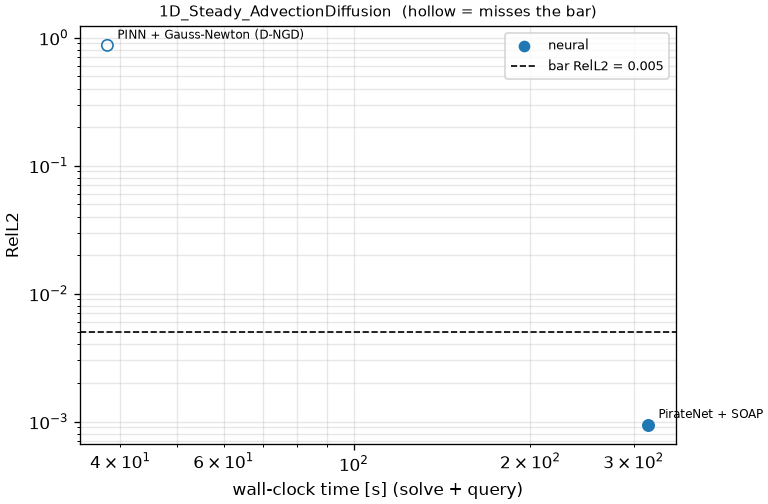
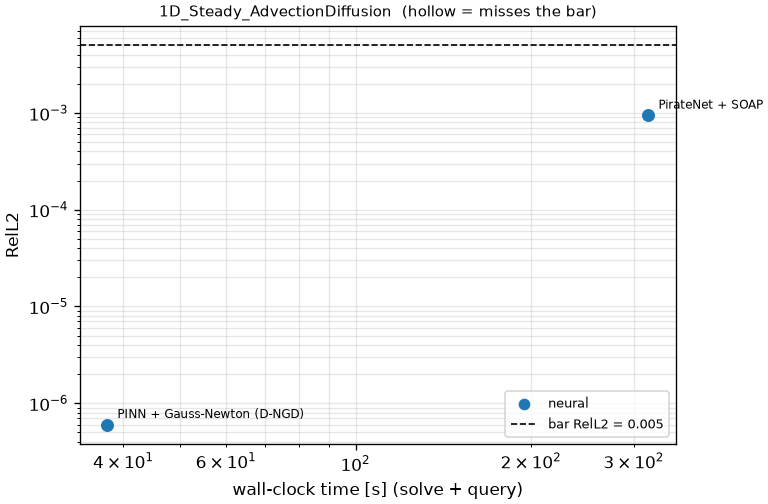
1D_Steady_AdvectionDiffusion, D-NGD: drop the Levenberg-Marquardt damping clip
The port had copied lm_max = 0.1 from the 2D steady tracks; with it Gauss-Newton stalls even at eps = 0.1
(RelL2 0.92), with the default fixed damping 1e-8 (as on the 1D time-dependent tracks) it converges
(eps = 0.1: 1.3e-7 in 300 steps; eps = 0.01: 6.0e-7 in 4000 steps). Rescored: 37.5 s, RelL2 6.0e-7, the record.

diff --git a/tracks/1D_Steady_AdvectionDiffusion/submissions/submission_PR0002/solve.py b/tracks/1D_Steady_AdvectionDiffusion/submissions/submission_PR0002/solve.py
@@ -1,8 +1,7 @@
 """Submission 2: PINN trained by Gauss-Newton (speedrun/submissions/submission_PR0002). Steady 1D advection-diffusion
 -eps u'' + b u' = f with an outflow boundary layer: PDE residual + the Dirichlet walls u(0) = u(1) = 0 as boundary
-terms, collocation clustered at the walls, float64."""
+terms, collocation clustered at the walls, fixed damping 1e-8 (no Levenberg-Marquardt clip), float64."""
 
-from speedrun.submissions.submission_PR0002.gn import GNConfig
 from speedrun.submissions.submission_PR0002.net import partials
 from speedrun.submissions.submission_PR0002.pinn import BC, PINN, Config, query, solve  # noqa: F401
 
@@ -17,5 +16,5 @@ def setup(problem):
     def walls(U, z):
         return U(z)[:1] - fn["bc"](z[0])
 
-    cfg = Config(gn=GNConfig(lm_max=0.1), width=50, depth=4, n_colloc=4000, n_bc=2, steps=4000, cluster_axes=("x",))
+    cfg = Config(width=50, depth=4, n_colloc=4000, n_bc=2, steps=4000, cluster_axes=("x",))
     return PINN(problem, residual, 1, cfg, bcs=[BC("x", walls, weight=10.0)]).compile()

diff --git a/speedrun/submissions/submission_PR0002/README.md b/speedrun/submissions/submission_PR0002/README.md
@@ -37,12 +37,13 @@ Per-track settings (`tracks/<track>/submissions/submission_PR0002/solve.py`):
 
 | track | windows | MLP | Fourier modes | points / step | GN steps | damping |
 |---|---|---|---|---|---|---|
+| 1D_Steady_AdvectionDiffusion | steady | 50 x 4 | - | 4k (clustered) + 2 wall | 4000 | 1e-8 |
 | 1D_DampedWave | 16 | 50 x 4 | 30 (odd ext.) | 20k | 100 / window | 1e-8 |
 | 1D_Burgers | 10 | 50 x 4 | 30 (odd ext.) | 20k | 100 / window | 1e-8 |
 | 1D_KuramotoSivashinsky | 20 (JAX-NG) | 50 x 4 (JAX-NG) | 10 | 20k | 200 / window | 1e-8 |
 | 1D_AllenCahn | 10 | 50 x 4 | 10 | 20k | 100 / window | 1e-8 |
 | 1D_KdV | 5 (JAX-NG) | 30 x 4 (JAX-NG) | 10 | 20k | 100 / window | 1e-8 |
-| 2D_Steady_AdvectionDiffusion | steady | 50 x 4 | - | 8k (clustered) + 1k insulated wall | 6000 | LM |
+| 2D_Steady_AdvectionDiffusion | steady | 50 x 4 | - | 8k (clustered) + 2 x 1k wall | 6000 | LM |
 | 2D_Steady_Kovasznay | steady | 50 x 4 | - | 4k + 4 x 500 wall | 300 | LM |
 | 2D_Steady_LidDrivenCavity | steady | 50 x 4 | - | 6k (clustered) + 4 x 750 wall | 6000 | LM |
 | 2D_GreyScott | 10 | 50 x 4 | 10 | 8k | 300 / window | LM |

diff --git a/README.md b/README.md
@@ -164,7 +164,7 @@ its tracker: RelL2 vs wall-clock time, one point per submission, bar dashed.
 | track | best submission | time [s] | RelL2 (≤ 0.5%) | RelL∞ (≤ 1%) | bar met |
 |---|---|---|---|---|---|
 | 0D_VanDerPol | [PirateNet + SOAP](tracks/0D_VanDerPol/submissions/submission_PR0001/solve.py) | 300.4 | 114% | 175% | no |
-| 1D_Steady_AdvectionDiffusion | [PirateNet + SOAP](tracks/1D_Steady_AdvectionDiffusion/submissions/submission_PR0001/solve.py) | 317.9 | 0.0945% | 0.136% | yes |
+| 1D_Steady_AdvectionDiffusion | [PINN + Gauss-Newton (D-NGD)](tracks/1D_Steady_AdvectionDiffusion/submissions/submission_PR0002/solve.py) | 37.54 | 6e-05% | 8.33e-05% | yes |
 | 1D_DampedWave | [PirateNet + SOAP](tracks/1D_DampedWave/submissions/submission_PR0001/solve.py) | 1001 | 1.43% | 0.814% | no |
 | 1D_Burgers | [PINN + Gauss-Newton (D-NGD)](tracks/1D_Burgers/submissions/submission_PR0002/solve.py) | 200.1 | 3.24e-05% | 0.000345% | yes |
 | 1D_KuramotoSivashinsky | [PINN + Gauss-Newton (D-NGD)](tracks/1D_KuramotoSivashinsky/submissions/submission_PR0002/solve.py) | 542.6 | 0.128% | 0.653% | yes |

diff --git a/tracks/1D_Steady_AdvectionDiffusion/README.md b/tracks/1D_Steady_AdvectionDiffusion/README.md
@@ -24,12 +24,12 @@ exact solution
 
 ## Records
 
-Current record: **317.9 s** (PirateNet + SOAP, maintainers, 2026-11-05, NVIDIA H100 80GB HBM3 (JAX)).
+Current record: **37.54 s** (PINN + Gauss-Newton (D-NGD), maintainers, 2026-11-05, NVIDIA H100 80GB HBM3 (JAX)).
 
 | date | author | name | kind | time [s] | RelL2 | RelL∞ | passes | hardware |
 |---|---|---|---|---|---|---|---|---|
 | 2026-11-05 | maintainers | PirateNet + SOAP | neural | 317.9 | 9.45e-04 | 1.36e-03 | yes | NVIDIA H100 80GB HBM3 (JAX) |
-| 2026-11-05 | maintainers | PINN + Gauss-Newton (D-NGD) | neural | 38 | 8.70e-01 | 5.34e-01 | no | NVIDIA H100 80GB HBM3 (JAX) |
+| 2026-11-05 | maintainers | PINN + Gauss-Newton (D-NGD) | neural | 37.54 | 6.00e-07 | 8.33e-07 | yes | NVIDIA H100 80GB HBM3 (JAX) |
 
 ![accuracy_vs_time](figures/accuracy_vs_time.png)
 
